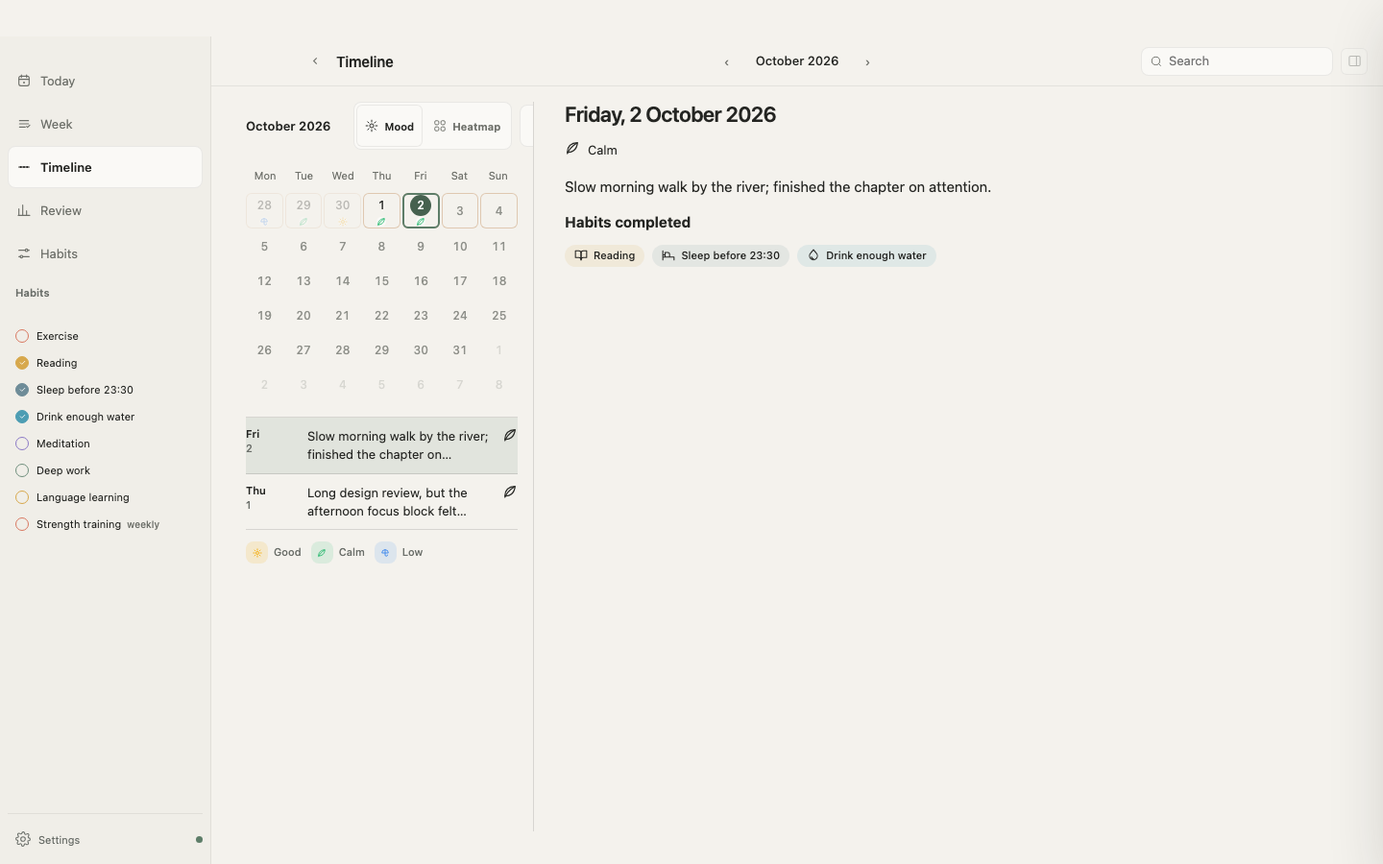
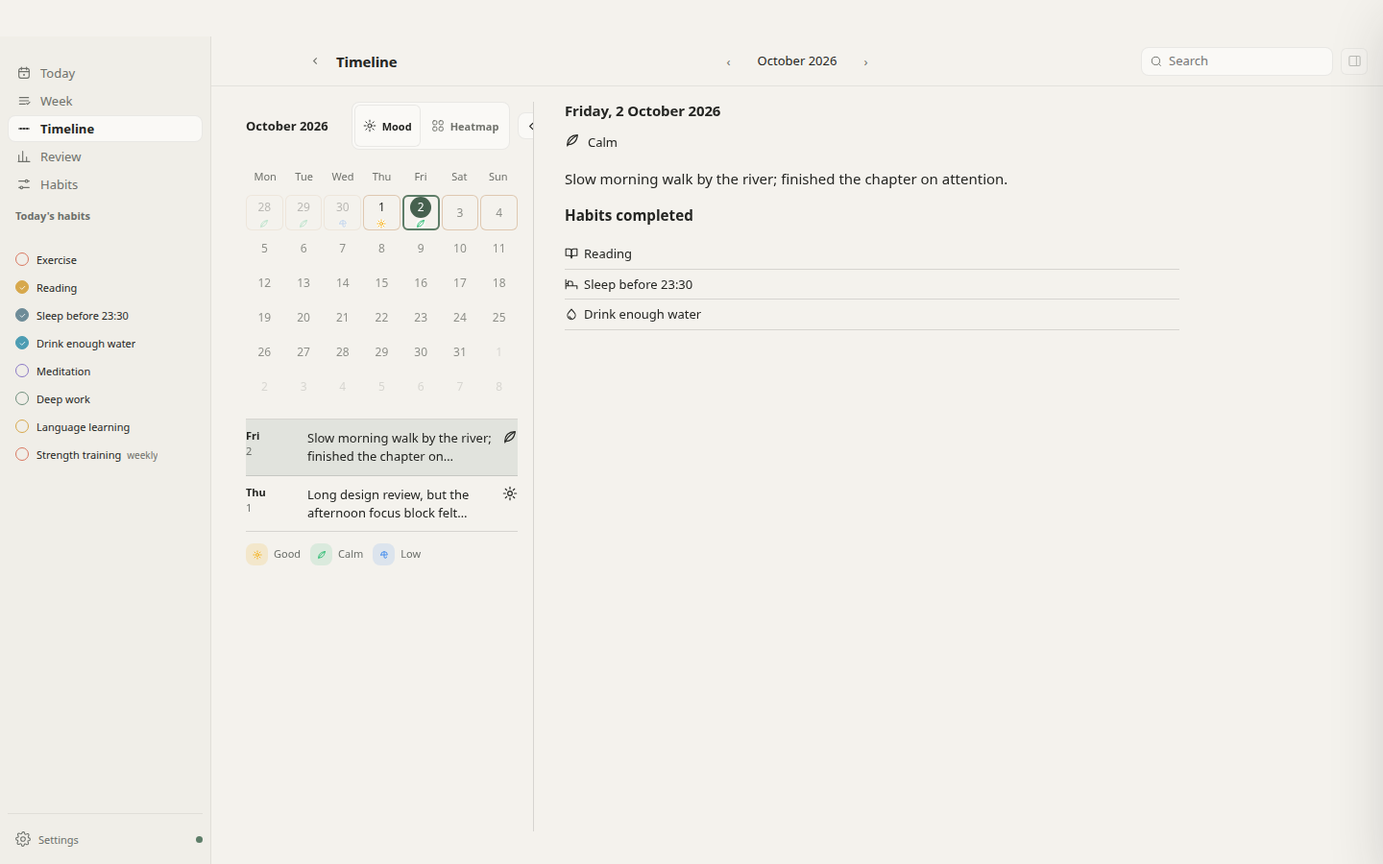
fix(desktop): finish the native Review document and pane density
Review now opens as a written month: one status line, the reflection,
then a short completion trend, with detailed metrics as compact rows.
Timeline habits are a list, the desktop window scrolls inside the main
pane, and the fictional English, Chinese, and German desktop screenshots
were regenerated. Data, backups, and the widget contract are unchanged.

Tests: npm test 147/147, desktop:check 50/50, desktop:prepare,
desktop:widget:sanity, cargo test 30/30, git diff --check, and browser
QA across 980/1180/1440/1600, light/dark, en/zh/de, keyboard focus,
reduced motion, and backup round-trip (63/63).

diff --git a/public/styles.css b/public/styles.css
@@ -139,6 +139,9 @@ body.inspector-collapsed .inspector { opacity: 0; transform: translateX(12px); p
 .timeline-detail { min-width: 0; }
 .timeline-detail-date { margin: 0 0 var(--space-4); font: 600 clamp(20px, 2.2vw, 24px)/1.2 var(--font-display); }
 .timeline-detail-note { max-width: 640px; font: 400 15px/1.55 var(--font-body); white-space: pre-wrap; }
+.timeline-habit-list { list-style: none; margin: 8px 0 0; padding: 0; display: flex; flex-wrap: wrap; gap: 8px; }
+.timeline-habit-row { display: inline-flex; align-items: center; gap: 6px; padding: 4px 10px; border-radius: 999px; background: color-mix(in srgb, var(--habit-color, var(--sage)) 12%, transparent); font-size: var(--text-caption); }
+.timeline-habit-row .lucide-icon { width: 14px; height: 14px; flex: 0 0 auto; }
 .review-insight-block { display: grid; gap: 4px; }
 .review-insight-value { font: 600 22px/1.1 var(--font-body); }
 .review-insight-label,
@@ -1216,7 +1219,11 @@ html[data-theme="dark"][data-desktop] {
   --selectedContentBackground: #2c3a30;
   --controlAccent: #9bc2ab;
 }
-html[data-desktop] body { padding-top: var(--desktop-inset); color: var(--label); }
+html[data-desktop] body { padding-top: var(--desktop-inset); color: var(--label); overflow: hidden; }
+html[data-desktop] .app-shell { height: calc(100vh - var(--desktop-inset)); min-height: 0; overflow: hidden; }
+html[data-desktop] .workspace-pane { height: 100%; min-height: 0; overflow: hidden; }
+html[data-desktop] .content-split { min-height: 0; overflow: hidden; }
+html[data-desktop] .main-content { overflow: auto; }
 html[data-desktop] .muted,
 html[data-desktop] .today-summary,
 html[data-desktop] .today-date-secondary,
@@ -1234,12 +1241,14 @@ html[data-desktop] .sidebar-sync-status { flex: 0 0 auto; }
 html[data-desktop] .sidebar-sync-status i { width: 7px; height: 7px; }
 html[data-desktop] .sidebar-footer { flex-wrap: nowrap; white-space: nowrap; }
 html[data-desktop] .toolbar-date-label[hidden] { display: none; }
-html[data-desktop] body[data-active-view="today"] .main-content { max-width: 720px; padding-left: var(--space-6); padding-right: var(--space-6); }
-html[data-desktop] .today-header { margin-bottom: var(--space-5); }
-html[data-desktop] .today-date-heading { margin: 0; font: var(--text-large-title); letter-spacing: -0.02em; color: var(--label); }
-html[data-desktop] .today-date-secondary { margin: 4px 0 0; font: var(--text-secondary-ui); color: var(--secondaryLabel); }
+html[data-desktop] body[data-active-view="today"] .main-content { max-width: none; padding-left: var(--space-5); padding-right: var(--space-5); }
+html[data-desktop] .today-header { display: flex; align-items: baseline; justify-content: space-between; gap: var(--space-3); margin-bottom: var(--space-2); }
+html[data-desktop] .today-date-heading { margin: 0; font: var(--text-section-title); letter-spacing: -0.01em; color: var(--label); }
+html[data-desktop] .today-date-secondary { margin: 0; font: var(--text-secondary-ui); color: var(--secondaryLabel); }
 html[data-desktop] .today-summary { display: none; }
-html[data-desktop] .today-habit-list { margin-top: var(--space-5); border-top: 1px solid var(--separator); }
+html[data-desktop] .today-events-strip { flex-direction: column; gap: 0; overflow: visible; margin-bottom: var(--space-2); }
+html[data-desktop] .today-event-chip { border: 0; border-radius: 0; background: transparent; padding: 6px 0; border-bottom: 1px solid var(--separator); }
+html[data-desktop] .today-habit-list { margin-top: var(--space-2); border-top: 1px solid var(--separator); }
 html[data-desktop] .today-habit-row { grid-template-columns: 24px minmax(0, 1fr) auto; align-items: center; min-height: 36px; padding: 0 var(--space-2); margin: 0; border: 0; border-radius: var(--radius-row); transition: background-color 120ms ease; }
 html[data-desktop] .today-habit-row:hover { background: color-mix(in srgb, var(--controlAccent) 8%, transparent); }
 html[data-desktop] .today-habit-row.selected { background: color-mix(in srgb, var(--controlAccent) 12%, transparent); margin-inline: var(--space-2); }
@@ -1282,7 +1291,7 @@ html[data-desktop] .sidebar-habit-check { width: 14px; height: 14px; display: gr
 html[data-desktop] .sidebar-habit-check svg { width: 9px; height: 9px; stroke: #fff; stroke-width: 2.2; fill: none; }
 html[data-desktop] .sidebar-habit-item.done .sidebar-habit-check { background: var(--habit-color, var(--controlAccent)); border-color: var(--habit-color, var(--controlAccent)); }
 html[data-desktop] .inspector-context-list { list-style: none; margin: 0; padding: 0; display: grid; gap: 6px; font: var(--text-body-ui); }
-html[data-desktop] .week-agenda-row { grid-template-columns: 96px 80px 20px minmax(0, 1fr); gap: var(--space-3); padding: 8px var(--space-2); margin: 0 calc(var(--space-2) * -1); border: 0; border-radius: var(--radius-row); align-items: center; }
+html[data-desktop] .week-agenda-row { grid-template-columns: 96px 80px 20px minmax(0, 1fr); gap: var(--space-3); padding: 8px var(--space-2); margin: 0 calc(var(--space-2) * -1); border: 0; border-radius: var(--radius-row); align-items: center; transition: background-color 120ms ease; }
 html[data-desktop] .week-agenda-day { display: grid; gap: 1px; min-width: 0; }
 html[data-desktop] .week-agenda-weekday { font: 500 13px/1.3 var(--font-body); color: var(--label); }
 html[data-desktop] .week-agenda-date { font: var(--text-secondary-ui); color: var(--secondaryLabel); }
@@ -1293,7 +1302,10 @@ html[data-desktop] .week-agenda-mood { display: grid; place-items: center; width
 html[data-desktop] .week-agenda-mood svg { width: 16px; height: 16px; }
 html[data-desktop] .week-agenda-note { font: var(--text-body-ui); overflow: hidden; text-overflow: ellipsis; white-space: nowrap; min-width: 0; }
 html[data-desktop] .week-agenda-note.empty { color: var(--tertiaryLabel); }
-html[data-desktop] .weekly-goals-section { margin-top: var(--space-5); max-width: 680px; }
+html[data-desktop] .weekly-goals-section { margin-top: var(--space-5); max-width: none; }
+html[data-desktop] .goal-horizon-switch { align-self: center; margin: 0; padding: 2px; border: 1px solid var(--separator); border-radius: var(--radius-control); background: color-mix(in srgb, var(--label) 4%, transparent); box-shadow: none; }
+html[data-desktop] .goal-horizon-switch button { min-height: 22px; padding: 2px 10px; border-radius: calc(var(--radius-control) - 2px); background: transparent; color: var(--secondaryLabel); font: 600 11px/1.3 var(--font-body); box-shadow: none; }
+html[data-desktop] .goal-horizon-switch button.active { background: var(--surface-1); color: var(--label); box-shadow: inset 0 0 0 1px color-mix(in srgb, var(--label) 8%, transparent); }
 html[data-desktop] .weekly-goals-header { display: flex; align-items: center; justify-content: space-between; gap: var(--space-3); margin-bottom: var(--space-2); }
 html[data-desktop] .weekly-goal-check { width: 18px; height: 18px; border-radius: 50%; border: 1.5px solid var(--separator); background: transparent; color: transparent; }
 html[data-desktop] .weekly-goal-check svg { width: 11px; height: 11px; stroke: #fff; stroke-width: 2.2; fill: none; }
@@ -1329,33 +1341,62 @@ html[data-desktop] .timeline-calendar-card .calendar-grid[data-mode="mood"] .cal
 html[data-desktop] .timeline-calendar-legend { display: flex; flex-wrap: nowrap; gap: 10px; margin: var(--space-3) 0 0; font: 500 11px/1.35 var(--font-body); color: var(--secondaryLabel); justify-content: flex-start; min-height: 0; }
 html[data-desktop] .timeline-calendar-legend .legend-mood svg { width: 10px; height: 10px; }
 html[data-desktop] .timeline-entry-list { margin-top: var(--space-4); border-top: 1px solid var(--separator); }
-html[data-desktop] .timeline-entry-row { grid-template-columns: 56px minmax(0, 1fr) auto; padding: 10px 0; border-bottom: 1px solid var(--separator); align-items: start; }
+html[data-desktop] .timeline-entry-row { grid-template-columns: 56px minmax(0, 1fr) auto; padding: 10px 0; border-bottom: 1px solid var(--separator); align-items: start; transition: background-color 120ms ease; }
 html[data-desktop] .timeline-entry-trailing { display: inline-flex; align-items: center; gap: 4px; }
 html[data-desktop] .timeline-entry-date strong { display: block; font: 600 11px/1.2 var(--font-body); }
 html[data-desktop] .timeline-entry-date span { font: var(--text-secondary-ui); color: var(--secondaryLabel); }
 html[data-desktop] .timeline-entry-note { display: -webkit-box; -webkit-line-clamp: 2; -webkit-box-orient: vertical; overflow: hidden; font: var(--text-body-ui); line-height: 1.45; }
 html[data-desktop] .timeline-entry-mood svg { width: 16px; height: 16px; }
 html[data-desktop] .timeline-detail { min-width: 0; padding: 0 var(--space-6); max-width: 704px; }
-html[data-desktop] .timeline-detail-date { margin: 0 0 var(--space-3); font: 600 22px/1.25 var(--font-body); letter-spacing: -0.02em; }
+html[data-desktop] .timeline-detail-date { margin: 0 0 var(--space-3); font: var(--text-section-title); letter-spacing: -0.01em; }
+html[data-desktop] .timeline-habit-list { display: grid; gap: 0; margin-top: var(--space-2); }
+html[data-desktop] .timeline-habit-row { display: flex; width: 100%; padding: 6px 0; border: 0; border-bottom: 1px solid var(--separator); border-radius: 0; background: transparent; font: var(--text-body-ui); }
 html[data-desktop] .timeline-detail-mood { display: flex; align-items: center; gap: 8px; margin: 0 0 var(--space-4); font: var(--text-body-ui); }
 html[data-desktop] .timeline-detail-mood-glyph svg { width: 16px; height: 16px; }
 html[data-desktop] .timeline-detail-note { max-width: 640px; font: 400 15px/1.6 var(--font-body); white-space: pre-wrap; }
-html[data-desktop] .timeline-habit-chips { display: flex; flex-wrap: wrap; gap: 8px; }
-html[data-desktop] .timeline-habit-chip { display: inline-flex; align-items: center; gap: 6px; padding: 4px 10px; border-radius: 999px; background: color-mix(in srgb, var(--habit-color, var(--controlAccent)) 12%, transparent); font: var(--text-secondary-ui); white-space: nowrap; }
-html[data-desktop] .timeline-habit-chip .lucide-icon { width: 14px; height: 14px; flex: 0 0 auto; }
+html[data-desktop] .timeline-habit-row .lucide-icon { width: 14px; height: 14px; flex: 0 0 auto; }
 html[data-desktop] body.timeline-no-inspector .content-split { grid-template-columns: minmax(0, 1fr) 0; }
 html[data-desktop] body.timeline-no-inspector .inspector { opacity: 0; pointer-events: none; }
-html[data-desktop] .review-insights { display: grid; grid-template-columns: repeat(3, minmax(0, 1fr)); gap: 0; margin-bottom: var(--space-5); border: 0; background: transparent; }
-html[data-desktop] .review-insight-block { display: grid; gap: 4px; padding: 0 var(--space-4); border-left: 1px solid var(--separator); }
-html[data-desktop] .review-insight-block:first-child { border-left: 0; padding-left: 0; }
-html[data-desktop] .review-insight-value { font: 600 24px/1.1 var(--font-body); color: var(--label); }
+html[data-desktop] #reviewView > .review-trend-chart,
+html[data-desktop] #reviewView > .review-detailed-metrics,
+html[data-desktop] #reviewView > .review-narrative { order: 0; }
+html[data-desktop] .review-intro { align-items: baseline; margin-bottom: var(--space-2); }
+html[data-desktop] .review-intro #reviewTitle { margin: 0; font: var(--text-section-title); letter-spacing: -0.01em; }
+html[data-desktop] .review-insights { display: flex; flex-wrap: wrap; align-items: baseline; gap: 6px 0; margin: 0 0 var(--space-4); border: 0; background: transparent; }
+html[data-desktop] .review-insight-block { display: inline-flex; flex-wrap: wrap; align-items: baseline; gap: 6px; margin: 0; padding: 0 0 0 12px; border: 0; border-left: 1px solid var(--separator); }
+html[data-desktop] .review-insight-block:first-child { padding-left: 0; border-left: 0; }
+html[data-desktop] .review-insight-block + .review-insight-block { margin-left: 12px; }
+html[data-desktop] .review-insight-value { font: 600 13px/1.35 var(--font-body); color: var(--label); }
 html[data-desktop] .review-insight-label { font: 500 12px/1.35 var(--font-body); color: var(--secondaryLabel); }
-html[data-desktop] .review-insight-delta { font: 500 11px/1.35 var(--font-body); color: var(--secondaryLabel); }
+html[data-desktop] .review-insight-delta { font: 500 12px/1.35 var(--font-body); color: var(--secondaryLabel); }
 html[data-desktop] .review-insight-delta.up { color: var(--controlAccent); }
 html[data-desktop] .review-insight-delta.down { color: #c46a5a; }
 html[data-desktop] .review-trend-title { margin: 0 0 var(--space-2); font: 600 13px/1.35 var(--font-body); color: var(--label); }
 html[data-desktop] .review-trend-range { margin-left: var(--space-2); font-weight: 400; color: var(--secondaryLabel); }
-html[data-desktop] .review-trend-chart svg { height: 160px; }
+html[data-desktop] .review-trend-chart { margin-top: var(--space-4); }
+html[data-desktop] .review-trend-chart svg { width: 100%; height: 112px; }
+html[data-desktop] .review-narrative { margin-top: 0; }
+html[data-desktop] .review-narrative-header { display: flex; align-items: center; justify-content: space-between; gap: var(--space-3); margin-bottom: var(--space-2); }
+html[data-desktop] .review-narrative-header h3 { margin: 0; font: var(--text-section-title); }
+html[data-desktop] #reviewDetailedMetrics .panel,
+html[data-desktop] #reviewDetailedMetrics .focus-review-panel { border: 0; background: transparent; border-radius: 0; padding: 0; box-shadow: none; }
+html[data-desktop] #reviewDetailedMetrics .score-grid { grid-template-columns: 1fr; gap: 0; }
+html[data-desktop] #reviewDetailedMetrics .score-card { display: grid; grid-template-columns: minmax(0, 1fr) auto auto; align-items: center; gap: var(--space-3); padding: 8px 0; border: 0; border-bottom: 1px solid var(--separator); border-radius: 0; background: transparent; }
+html[data-desktop] #reviewDetailedMetrics .score-card-header { display: contents; }
+html[data-desktop] #reviewDetailedMetrics .score-card p { grid-column: 1 / -1; margin: 0; }
+html[data-desktop] #reviewDetailedMetrics .score-card strong { margin: 0; font: 600 13px/1.3 var(--font-body); }
+html[data-desktop] #reviewDetailedMetrics .review-grid { grid-template-columns: 1fr; gap: var(--space-5); }
+html[data-desktop] #reviewDetailedMetrics .focus-review-summary { border: 0; border-radius: 0; background: transparent; padding: 0; }
+html[data-desktop] #reviewDetailedMetrics .focus-review-summary > strong { margin: 4px 0; }
+html[data-desktop] #reviewDetailedMetrics .focus-review-summary > strong b { font: 600 22px/1.1 var(--font-body); letter-spacing: -0.02em; }
+html[data-desktop] #reviewDetailedMetrics .focus-review-content { min-height: 0; grid-template-columns: minmax(180px, 260px) minmax(0, 1fr); gap: var(--space-4); padding-top: var(--space-2); align-items: start; }
+html[data-desktop] #reviewDetailedMetrics .focus-review-chart:not(.month-view) { height: 120px; background: none; }
+html[data-desktop] #reviewDetailedMetrics .focus-review-chart.month-view { height: auto; min-height: 0; background: none; }
+html[data-desktop] #reviewDetailedMetrics .focus-heatmap-day { min-height: 32px; border-radius: var(--radius-control); }
+html[data-desktop] #reviewDetailedMetrics .focus-review-scope { padding: 2px; border: 1px solid var(--separator); border-radius: var(--radius-control); background: color-mix(in srgb, var(--label) 4%, transparent); }
+html[data-desktop] #reviewDetailedMetrics .focus-review-scope button { min-height: 22px; padding: 2px 8px; border-radius: calc(var(--radius-control) - 2px); font: 600 11px/1.3 var(--font-body); box-shadow: none; }
+html[data-desktop] #reviewDetailedMetrics .focus-review-scope button.active { background: var(--surface-1); color: var(--label); box-shadow: inset 0 0 0 1px color-mix(in srgb, var(--label) 8%, transparent); }
+html[data-desktop] #reviewDetailedMetrics .kicker { font: 600 11px/1.3 var(--font-body); letter-spacing: 0; text-transform: none; color: var(--secondaryLabel); }
 html[data-desktop] .inspector-review-table td:first-child { max-width: 0; overflow: hidden; text-overflow: ellipsis; white-space: nowrap; }
 html[data-desktop] .inspector-review-table th:not(:first-child), html[data-desktop] .inspector-review-table td:not(:first-child) { width: 1%; white-space: nowrap; text-align: right; font-variant-numeric: tabular-nums; }
 html[data-desktop] .inspector-review-focus-title { margin: var(--space-3) 0 var(--space-2); font: 600 11px/1.35 var(--font-body); color: var(--secondaryLabel); }
@@ -1364,8 +1405,9 @@ html[data-desktop] .review-trend-axis { fill: var(--secondaryLabel); font: 500 9
 html[data-desktop] .review-trend-bar { fill: color-mix(in srgb, var(--controlAccent) 45%, var(--separator)); }
 html[data-desktop] .review-trend-bar.high,
 html[data-desktop] .review-trend-bar.today { fill: var(--controlAccent); }
-html[data-desktop] .review-narrative textarea { width: 100%; min-height: 160px; resize: none; border: 0; background: transparent; font: var(--text-body-ui); line-height: 1.55; }
+html[data-desktop] .review-narrative textarea { width: 100%; max-width: 68ch; min-height: 168px; resize: none; border: 0; background: transparent; font: 400 15px/1.6 var(--font-body); line-height: 1.6; padding: 0; }
 html[data-desktop] .review-detailed-metrics summary { font: var(--text-secondary-ui); color: var(--secondaryLabel); }
+html[data-desktop] .habit-settings-list { gap: 0; }
 html[data-desktop] .habits-view-header { display: flex; align-items: center; justify-content: space-between; gap: var(--space-3); margin-bottom: var(--space-3); }
 html[data-desktop] .habits-view-summary { margin: 0; font: var(--text-secondary-ui); color: var(--secondaryLabel); }
 html[data-desktop] .habit-settings-header,
@@ -1426,10 +1468,9 @@ html[data-desktop] .settings-panel textarea:focus-visible { outline: 3px solid c
   html[data-desktop] .timeline-layout { grid-template-columns: 260px minmax(0, 1fr); }
 }
 @media (max-width: 979px) {
-  html[data-desktop] .review-insights { grid-template-columns: 1fr; }
   html[data-desktop] .habit-settings-header { display: none; }
 }
-html[data-desktop] .app-shell { min-height: calc(100vh - var(--desktop-inset)); }
+html[data-desktop] .app-shell { height: calc(100vh - var(--desktop-inset)); min-height: 0; overflow: hidden; }
 html[data-desktop] .sidebar { position: sticky; top: 0; height: calc(100vh - var(--desktop-inset)); margin: 0; border-radius: 0; box-shadow: none; border-width: 0 1px 0 0; }
 html[data-desktop] .main-content { max-width: none; margin: 0; padding: 16px clamp(16px, 2.5vw, 36px) 32px; }
 html[data-desktop] .app-toolbar { min-height: 52px; padding-block: 0; }
@@ -1440,10 +1481,10 @@ html[data-desktop] .toolbar-inspector-toggle { width: 28px; height: 28px; paddin
 html[data-desktop] .toolbar-inspector-toggle svg { width: 15px; height: 15px; fill: none; stroke: currentColor; stroke-width: 1.7; }
 html[data-desktop] .toolbar-inspector-toggle:disabled { opacity: .4; cursor: default; }
 html[data-desktop] [data-install-app] { display: none !important; }
-html[data-desktop] .icon-button { width: 44px; height: 44px; }
-html[data-desktop] .nav-item { min-height: 44px; }
+html[data-desktop] .icon-button { width: 28px; height: 28px; }
+html[data-desktop] .nav-item { min-height: 28px; padding-block: 4px; }
 html[data-desktop] .primary-button:not(.focus-start-btn),
-html[data-desktop] .secondary-button:not(.focus-inline-secondary) { min-height: 44px; }
+html[data-desktop] .secondary-button:not(.focus-inline-secondary) { min-height: 28px; padding-block: 4px; }
 
 @media (min-width: 761px) {
   body.sidebar-collapsed .app-shell { grid-template-columns: 64px minmax(0, 1fr); }
@@ -1497,6 +1538,13 @@ html[data-desktop] .habit-context-menu:not([hidden]) { animation: popoverIn var(
   html[data-theme="dark"] .primary-button:hover { background: color-mix(in srgb, var(--accent) 88%, white); }
 }
 
+/* Narrow web/PWA keeps the chart before the reflection. Desktop source order is the document. */
+@media (max-width: 979px) {
+  #reviewView.active { display: flex; flex-direction: column; }
+  #reviewView > .review-trend-chart { order: 3; }
+  #reviewView > .review-detailed-metrics { order: 4; }
+  #reviewView > .review-narrative { order: 5; }
+}
 @media (max-width: 760px) {
   .theme-switcher { order: 2; }
   .sidebar-toggle { display: none; }

diff --git a/public/app.js b/public/app.js
@@ -1772,7 +1772,7 @@ function applyLanguage() {
   $$("#drawerMood button").forEach(button => {
     button.textContent = moodLabel(button.dataset.mood);
   });
-  setText("#sidebarHabitsHeading", languageText("习惯", "Habits", "Gewohnheiten"));
+  setText("#sidebarHabitsHeading", languageText("今日习惯", "Today's habits", "Heutige Gewohnheiten"));
   setText("#habitColName", tr("habits.colName"));
   setText("#habitColTarget", tr("habits.colTarget"));
   setText("#habitColActive", tr("habits.colActive"));
@@ -2899,7 +2899,7 @@ async function renderTimelineDetail() {
     ${log.note ? `<div class="timeline-detail-note">${escapeHtml(log.note)}</div>` : `<p class="timeline-detail-empty-note">${escapeHtml(tr("timeline.noNote"))}</p>`}
     <div class="timeline-detail-photos" id="timelineDetailPhotos"></div>
     ${events.length ? `<section class="timeline-detail-events"><h3>${escapeHtml(tr("dayPlan.schedule"))}</h3><ul>${events.map(event => `<li>${escapeHtml(event.allDay ? tr("dayPlan.allDay") : event.start)} · ${escapeHtml(event.title)}</li>`).join("")}</ul></section>` : ""}
-    ${habits.length ? `<section class="timeline-detail-habits"><h3>${escapeHtml(tr("timeline.habitsHeading"))}</h3><div class="timeline-habit-chips">${habits.map(habit => `<span class="timeline-habit-chip" style="${habitStyle(habit)}">${renderIcon(iconKey(habit))} ${escapeHtml(displayHabitName(habit))}</span>`).join("")}</div></section>` : ""}`;
+    ${habits.length ? `<section class="timeline-detail-habits"><h3>${escapeHtml(tr("timeline.habitsHeading"))}</h3><ul class="timeline-habit-list">${habits.map(habit => `<li class="timeline-habit-row" style="${habitStyle(habit)}">${renderIcon(iconKey(habit))}<span>${escapeHtml(displayHabitName(habit))}</span></li>`).join("")}</ul></section>` : ""}`;
   await renderInspectorPhotosInto("#timelineDetailPhotos", date);
 }
 
@@ -3794,7 +3794,7 @@ function renderReviewTrendChart(monthDates) {
     `Last ${elapsed.length} days, averaging ${avg}% completion.`,
     `Letzte ${elapsed.length} Tage, durchschnittlich ${avg} % Erledigung.`,
   );
-  chart.innerHTML = `<h3 class="review-trend-title">${escapeHtml(tr("review.trendTitle"))} <span class="review-trend-range">${escapeHtml(`${formatLocalizedDate(parseDate(elapsed[0]), { day: "numeric", month: "short" })} – ${formatLocalizedDate(parseDate(elapsed[elapsed.length - 1]), { day: "numeric", month: "short" })}`)}</span></h3><svg viewBox="0 0 ${width} ${height}" role="img" aria-label="${escapeHtml(summary)}"><title>${escapeHtml(summary)}</title>${gridLines}${bars}${xLabels}</svg>`;
+  chart.innerHTML = `<h3 class="review-trend-title">${escapeHtml(tr("review.trendTitle"))} <span class="review-trend-range">${escapeHtml(`${formatLocalizedDate(parseDate(elapsed[0]), { day: "numeric", month: "short" })} – ${formatLocalizedDate(parseDate(elapsed[elapsed.length - 1]), { day: "numeric", month: "short" })}`)}</span></h3><svg viewBox="0 0 ${width} ${height}" preserveAspectRatio="none" role="img" aria-label="${escapeHtml(summary)}"><title>${escapeHtml(summary)}</title>${gridLines}${bars}${xLabels}</svg>`;
 }
 
 function renderReviewInspectorTable(habits, elapsedDates, monthDates) {
@@ -5527,8 +5527,7 @@ function bindEvents() {
   $("#toolbarPrimaryAction")?.addEventListener("click", () => {
     const view = document.body.dataset.activeView || "today";
     if (view === "timeline") return;
-    if (view === "habits") $("#addHabitButton")?.click();
-    else toggleInspector();
+    toggleInspector();
   });
   $("#openSettingsButton")?.addEventListener("click", openSettings);
   $("#closeSettingsPane")?.addEventListener("click", () => {

diff --git a/public/index.html b/public/index.html
@@ -183,6 +183,13 @@
             <h2 id="reviewTitle">June 2026</h2>
           </div>
           <div class="review-insights" id="reviewInsights" aria-live="polite"></div>
+          <section class="review-narrative monthly-reflection-panel">
+            <header class="review-narrative-header">
+              <h3 id="reviewNarrativeTitle">Monthly reflection</h3>
+              <div class="reflection-actions"><span class="review-narrative-autosave" id="reviewNarrativeAutosave">Autosaved</span><button class="secondary-button review-generate-button" id="generateReview" type="button">Start guided review</button></div>
+            </header>
+            <textarea id="reviewText" placeholder="What changed this month? What deserves to continue, and what should change next month?"></textarea>
+          </section>
           <div class="review-trend-chart" id="reviewTrendChart" aria-label="Monthly completion trend"></div>
           <details class="review-detailed-metrics" id="reviewDetailedMetrics">
             <summary id="reviewDetailedSummary">Detailed metrics</summary>
@@ -228,14 +235,6 @@
               </article>
             </div>
           </details>
-          <section class="review-narrative monthly-reflection-panel">
-            <header class="review-narrative-header">
-              <h3 id="reviewNarrativeTitle">Monthly reflection</h3>
-              <div class="reflection-actions"><button class="secondary-button review-generate-button" id="generateReview" type="button">Start guided review</button></div>
-            </header>
-            <textarea id="reviewText" placeholder="What changed this month? What deserves to continue, and what should change next month?"></textarea>
-            <span class="review-narrative-autosave" id="reviewNarrativeAutosave">Autosaved</span>
-          </section>
         </section>
 
         <section class="view" id="habitsView">

diff --git a/README.de-DE.md b/README.de-DE.md
@@ -255,7 +255,7 @@ Build-Schritte und Gatekeeper-Hinweise für unsignierte Apps stehen in [docs/mac
 
 ### 7. Life Ledger 2.0 — ein ruhiges Instrumentenbrett
 
-Version 3.0 baut die Desktop-App (Fensterbreiten ab 980px) als native macOS-Split-View statt als Karten-Dashboard neu auf. Eine kompakte Seitenleiste enthält die fünf Ansichten und eine kurze Gewohnheitsliste; eine einheitliche Werkzeugleiste trägt Titel, zentrierte Datums- oder Zeitraumnavigation und Suche; ein ausblendbarer Inspektor rechts zeigt Kontext zur aktuellen Ansicht und klappt in schmalen Fenstern vor der Seitenleiste ein. Heute ist eine Liste von Gewohnheitszeilen mit rundem Abhak-Steuerelement, einklappbarer Gruppe „Erledigt“ und Rückgängig; Stimmung, Reflexion und Fokus liegen im Inspektor. Woche ist eine Sieben-Tage-Agenda mit Wochenzielen; die Zeitleiste kombiniert nach dem Vorbild von Day One Monatskalender und Eintragsliste mit einem Tagesdetail; Rückblick zeigt höchstens drei Erkenntnisse, ein Diagramm der täglichen Erledigung und den Monatsrückblick; Gewohnheiten ist eine sortierbare Tabelle mit Editor im Inspektor. Die Mac-App hat jetzt ein echtes Programmmenü (App, Ablage, Bearbeiten, Darstellung, Fenster, Hilfe): Cmd+, öffnet ein eigenes Einstellungsfenster, Cmd+N eine neue Gewohnheit, Cmd+F die Suche, Cmd+1–5 die Ansichten, Cmd+B die Seitenleiste, Cmd+Wahl+0 den Inspektor, Cmd+T / Cmd+[ / Cmd+] die Datumsnavigation und Cmd+Umschalt+E Sicherung/Export; außerdem öffnet sie direkt den zuletzt genutzten Arbeitsbereich (Lokal oder Verbundene Cloud), änderbar über Ablage → Arbeitsbereich wechseln…. Handy- und schmale Browser-Layouts, Daten, Sicherungen, Synchronisierung, Sprachen und Themes bleiben unverändert.
+Version 3.0 baut die Desktop-App (Fensterbreiten ab 980px) als native macOS-Split-View statt als Karten-Dashboard neu auf. Eine kompakte Seitenleiste enthält die fünf Ansichten und eine kurze Gewohnheitsliste; eine einheitliche Werkzeugleiste trägt Titel, zentrierte Datums- oder Zeitraumnavigation und Suche; ein ausblendbarer Inspektor rechts zeigt Kontext zur aktuellen Ansicht und klappt in schmalen Fenstern vor der Seitenleiste ein. Heute ist eine Liste von Gewohnheitszeilen mit rundem Abhak-Steuerelement, einklappbarer Gruppe „Erledigt“ und Rückgängig; Stimmung, Reflexion und Fokus liegen im Inspektor. Woche ist eine Sieben-Tage-Agenda mit Wochenzielen; die Zeitleiste kombiniert nach dem Vorbild von Day One Monatskalender und Eintragsliste mit einem Tagesdetail; Rückblick öffnet als Dokument: eine Statuszeile, die schriftliche Reflexion, danach ein kurzer Erledigungstrend; Gewohnheiten ist eine sortierbare Tabelle mit Editor im Inspektor. Die Mac-App hat jetzt ein echtes Programmmenü (App, Ablage, Bearbeiten, Darstellung, Fenster, Hilfe): Cmd+, öffnet ein eigenes Einstellungsfenster, Cmd+N eine neue Gewohnheit, Cmd+F die Suche, Cmd+1–5 die Ansichten, Cmd+B die Seitenleiste, Cmd+Wahl+0 den Inspektor, Cmd+T / Cmd+[ / Cmd+] die Datumsnavigation und Cmd+Umschalt+E Sicherung/Export; außerdem öffnet sie direkt den zuletzt genutzten Arbeitsbereich (Lokal oder Verbundene Cloud), änderbar über Ablage → Arbeitsbereich wechseln…. Handy- und schmale Browser-Layouts, Daten, Sicherungen, Synchronisierung, Sprachen und Themes bleiben unverändert.
 
 Version 2.0 bringt eine vollständige Neugestaltung der Oberfläche über Web-App, PWA und macOS-Hülle hinweg mit sich — nicht nur eine Desktop-Optik. Seitenleiste, Werkzeugleiste und alle fünf Ansichten (Heute, Woche, Zeitleiste, Rückblick, Gewohnheiten/Einstellungen) teilen sich jetzt ein zurückhaltendes System: Systemschrift (keine dekorative Serifenschrift oder Web-Schriftart mehr für die Oberfläche selbst), eine 4px-Abstandsskala, eine Rundungsskala von 6–14px statt der bisherigen 18–30px großen „Karten"-Optik, und Schatten sind jetzt schwebenden Dialogen, Popovers und der Tages-Schublade vorbehalten statt jeder einzelnen Karte. Jedes verbliebene Text-/Emoji-Symbol (Navigation, Stimmungsauswahl, Schließen-Schaltflächen in Dialogen, Auf-/Zuklapp-Pfeile, Karussell- und Kalenderpfeile) ist jetzt ein einheitliches, lokal eingebettetes SVG-Icon-System; Hover- und Klick-Feedback sind jetzt sofortige Rahmen- oder Hintergrundänderungen statt eines der Maus folgenden Neige-/Leuchteffekts. Helles und dunkles Erscheinungsbild sind jeweils eigenständig abgestimmt, und Bewegungseffekte respektieren weiterhin `prefers-reduced-motion`. Bestehende Daten, der lokale/verbundene Cloud-Modus, Sicherung/Import/Export, Sprache, Theme, Tastenkürzel, Kalender-, Gewohnheits-, Fokus- und Rückblick-Verhalten bleiben unverändert.
 

diff --git a/README.md b/README.md
@@ -24,7 +24,7 @@
 </div>
 
 <p align="center">
-  <img src="docs/images/demo-preview/en-desktop/en-04-monthly-review-v3.png" width="100%" alt="Life Ledger monthly review dashboard" />
+  <img src="docs/images/demo-preview/en-desktop/en-04-monthly-review-v3.png" width="100%" alt="Life Ledger monthly review" />
 </p>
 
 <p align="center">
@@ -242,7 +242,7 @@ Build and Gatekeeper notes are in [docs/macos-desktop.md](docs/macos-desktop.md)
 
 ### 7. Life Ledger 2.0 — a calm instrument panel
 
-Version 3.0 rebuilds the desktop app (window widths of 980px and up) as a native-style macOS split view instead of a dashboard of cards. A compact sidebar holds the five views and a short habits list; a unified toolbar carries the title, centered date or period navigation, and search; a hideable inspector on the right shows context for the current view and collapses before the sidebar in narrow windows. Today is a list of habit rows with a round check control, collapsible Completed group, and Undo, with Mood, Reflection, and Focus in the inspector. Week is a seven-day agenda with weekly goals; Timeline pairs a month calendar and entry list with a day detail pane in the style of Day One; Review shows up to three insights, one daily-completion chart, and the monthly narrative; Habits is a reorderable table with an editor in the inspector. The Mac app now has a real application menu (App, File, Edit, View, Window, Help) with Cmd+, for a separate Settings window, Cmd+N for a new habit, Cmd+F for search, Cmd+1–5 for views, Cmd+B for the sidebar, Cmd+Option+0 for the inspector, Cmd+T / Cmd+[ / Cmd+] for dates, and Cmd+Shift+E for backup/export; it also reopens your last workspace (Local or Connected Cloud) directly, with File → Switch Workspace… to change it. Phone and narrow browser layouts, data, backups, sync, languages, and themes are unchanged.
+Version 3.0 rebuilds the desktop app (window widths of 980px and up) as a native-style macOS split view instead of a dashboard of cards. A compact sidebar holds the five views and a short habits list; a unified toolbar carries the title, centered date or period navigation, and search; a hideable inspector on the right shows context for the current view and collapses before the sidebar in narrow windows. Today is a list of habit rows with a round check control, collapsible Completed group, and Undo, with Mood, Reflection, and Focus in the inspector. Week is a seven-day agenda with weekly goals; Timeline pairs a month calendar and entry list with a day detail pane in the style of Day One; Review opens as a document: a one-line status, the written reflection, then a short completion trend; Habits is a reorderable table with an editor in the inspector. The Mac app now has a real application menu (App, File, Edit, View, Window, Help) with Cmd+, for a separate Settings window, Cmd+N for a new habit, Cmd+F for search, Cmd+1–5 for views, Cmd+B for the sidebar, Cmd+Option+0 for the inspector, Cmd+T / Cmd+[ / Cmd+] for dates, and Cmd+Shift+E for backup/export; it also reopens your last workspace (Local or Connected Cloud) directly, with File → Switch Workspace… to change it. Phone and narrow browser layouts, data, backups, sync, languages, and themes are unchanged.
 
 Version 2.0 carries a full interface redesign across the web app, PWA, and the macOS shell alike — this is not a desktop-only skin. The sidebar, toolbar, and every view (Today, Week, Timeline, Review, Habits/Settings) now share one restrained system: system typography (no decorative serif or a network font for the interface chrome), a 4px spacing scale, a 6–14px radius scale in place of the previous 18–30px "card" look, and shadows reserved for floating dialogs, popovers, and the day drawer rather than every inline card. Every remaining glyph/emoji icon (navigation, mood picker, dialog close buttons, disclosure chevrons, carousel and calendar arrows) is now a coherent local inline SVG icon set, and hover/press feedback is immediate border or background changes instead of a mouse-following tilt/glow effect. Light and dark appearance are both deliberately tuned, independently of each other, and motion continues to respect `prefers-reduced-motion`. No existing data, local/connected-cloud modes, backup/import/export, language, theme, keyboard shortcut, calendar, habit, focus, or review behavior changed.
 

diff --git a/CHANGELOG.md b/CHANGELOG.md
@@ -16,7 +16,7 @@ All notable changes are documented here.
 
 - Replaced the dashboard/card architecture on desktop widths (≥980px, the packaged window's minimum) with a native-style adaptive split view: an edge-attached navigation sidebar (primary views plus a short, toggleable habits list), a unified toolbar (title, centered date/period navigation, search, inspector toggle), a main list pane, and a hideable per-view inspector that collapses before the sidebar on narrow windows. The giant quote hero, completion donut, habit-card carousel, weekly banner photo, Review KPI card wall, decorative sidebar quote/storage/status blocks, and the web-style global control strip were removed from the desktop markup, not hidden with CSS. Narrow/mobile layouts keep their existing structure.
 - Today is now a Things-style list: precise date header, vertical habit rows with a circular completion control, one trailing status, collapsible "Completed" and "Not in today's score" groups, and Undo. Mood (segmented control), Reflection, Focus, and day context moved to the inspector.
-- Week is a seven-day agenda (per-day completion, mood, note excerpt) with a focused weekly-goals checklist and the weekly reflection editor in the inspector. Timeline follows Day One: compact month calendar plus entry list, with the selected day's mood, note, photos, events, and completed habits in the detail pane. Review shows at most three insights, one daily-completion trend chart with labelled axes, and the monthly narrative; per-habit scores and focus-by-topic live in the inspector and detailed metrics behind a disclosure. Habits is a reorderable table with active switches and a grouped detail editor in the inspector; deletion offers Undo, and habit rows have a keyboard-accessible context menu.
+- Week is a seven-day agenda (per-day completion, mood, note excerpt) with a focused weekly-goals checklist and the weekly reflection editor in the inspector. The week/longer-term switch sits in that section header. Timeline follows Day One: compact month calendar plus entry list, with the selected day's mood, note, photos, events, and completed habits as a list in the detail pane. Review is a document: a one-line status, the monthly reflection, then a short completion trend. Per-habit scores and focus-by-topic live in the inspector; opening detailed metrics shows rows and a compact focus summary rather than score cards. Habits is a continuous reorderable table with active switches and a grouped detail editor in the inspector; deletion offers Undo, and habit rows have a keyboard-accessible context menu. Today uses a section-sized header and the list fills the pane.
 - Added a genuine Tauri macOS application menu (App, File, Edit, View, Window, Help) routed to the web layer: Cmd+, Settings, Cmd+N new habit, Cmd+Shift+E export, Cmd+F search, Cmd+1–5 views, Cmd+B sidebar, Cmd+Option+0 inspector, Cmd+T / Cmd+[ / Cmd+] date navigation. Settings opens in a separate auxiliary window with its own minimal capability instead of being a primary page.
 - The desktop launcher now remembers the last workspace (Local or validated Connected Cloud URL) and reopens it directly; "Switch Workspace…" in the File menu returns to the chooser. Local/cloud separation and cloud URL validation are unchanged.
 - Motion is purposeful and short: 200ms habit check fill/stroke, 160ms directional date change, 180ms inspector transitions, 120ms popovers; all disabled under `prefers-reduced-motion`.

diff --git a/docs/SHOWCASE.de-DE.md b/docs/SHOWCASE.de-DE.md
@@ -24,11 +24,11 @@ Konkrete Ziele und eine bearbeitbare Tagesreflexion stehen nebeneinander; der vo
 
 Erledigte Wochenziele bleiben als sichtbarer Fortschritt erhalten. Der Rückblick bietet ausreichend Raum für zusammenhängende Gedanken.
 
-### Monatsrückblick: Zahlen im Zusammenhang
+### Monatsrückblick: ein geschriebener Monat
 
-<img src="images/demo-preview/de-desktop/de-04-monthly-review-v3.png" alt="Monatsrückblick mit Gewohnheitsvergleich und Diagrammen" />
+<img src="images/demo-preview/de-desktop/de-04-monthly-review-v3.png" alt="Monatsrückblick als Dokument mit kurzem Erledigungstrend" />
 
-Die Auswertung berücksichtigt alle aktiven Gewohnheiten, auch periodische Ziele wie Krafttraining. Bis zu zwei Gewohnheiten lassen sich als Linien- oder Balkendiagramm vergleichen.
+Der Monat beginnt als Dokument: eine Statuszeile, die Reflexion, danach der kurze Erledigungstrend. Gewohnheitswerte und Fokuszeit bleiben im Inspektor. Vergleichsdiagramme liegen unter „Detaillierte Werte“.
 
 ### Fokus: sehen, wohin die Zeit geflossen ist
 

diff --git a/docs/SHOWCASE.md b/docs/SHOWCASE.md
@@ -24,11 +24,11 @@ Open any past or current calendar day to review habit check-ins, mood, and journ
 
 Weekly goals behave like a reminder list: completed work stays visible as evidence. The output area provides room for a narrative review.
 
-### Review: numbers with context
+### Review: a written month
 
-<img src="images/demo-preview/en-desktop/en-04-monthly-review-v3.png" alt="Monthly review, completion rhythm, and habit comparison dashboard" />
+<img src="images/demo-preview/en-desktop/en-04-monthly-review-v3.png" alt="Monthly review written as a document, with a short completion trend" />
 
-Monthly statistics include every active habit, including period-based goals such as resistance training. Compare up to two habits with line or bar views, then write the reflection beneath the data.
+The month opens as a document: one status line, the reflection, then the completion trend. Habit scores and focus time stay in the inspector. Comparison charts remain under Detailed metrics.
 
 ### Focus: see where the time went
 
